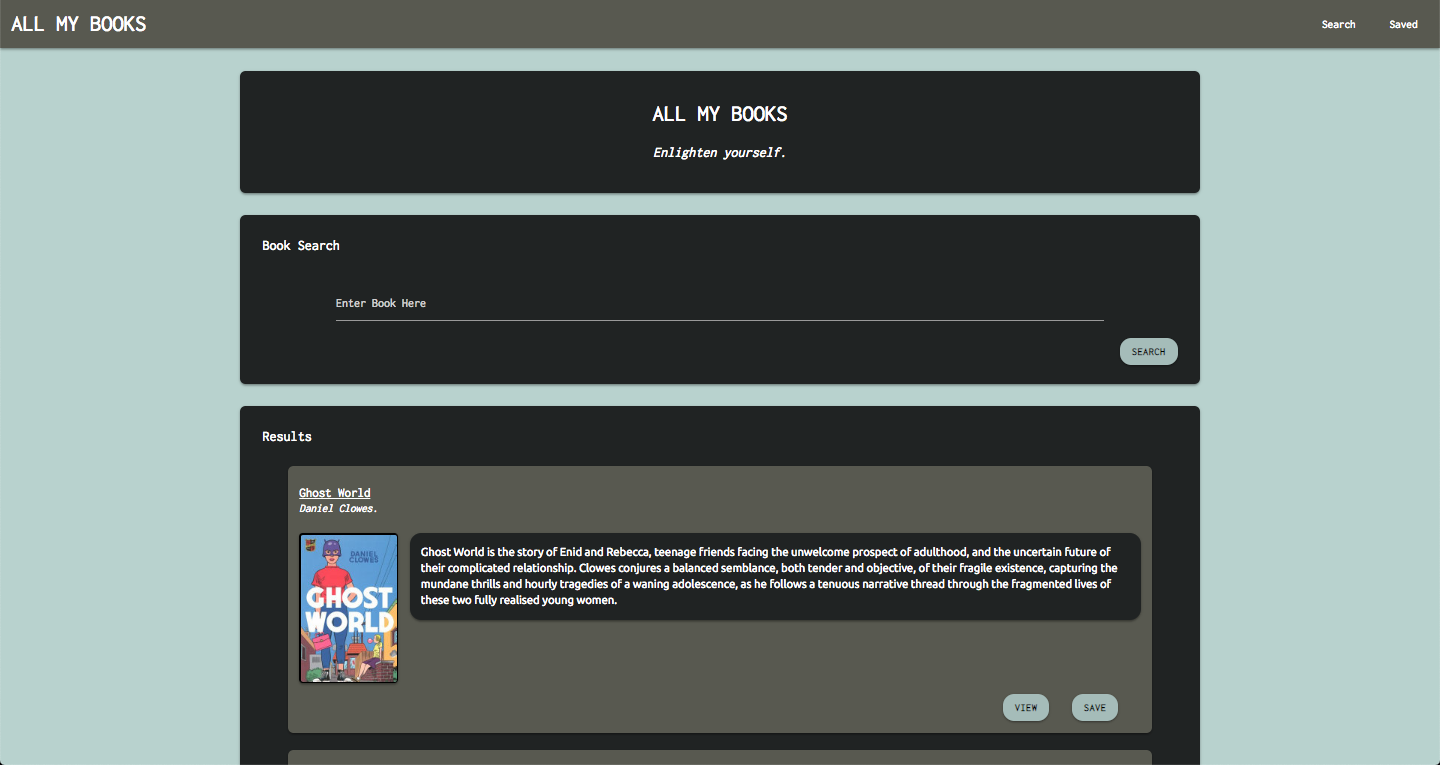
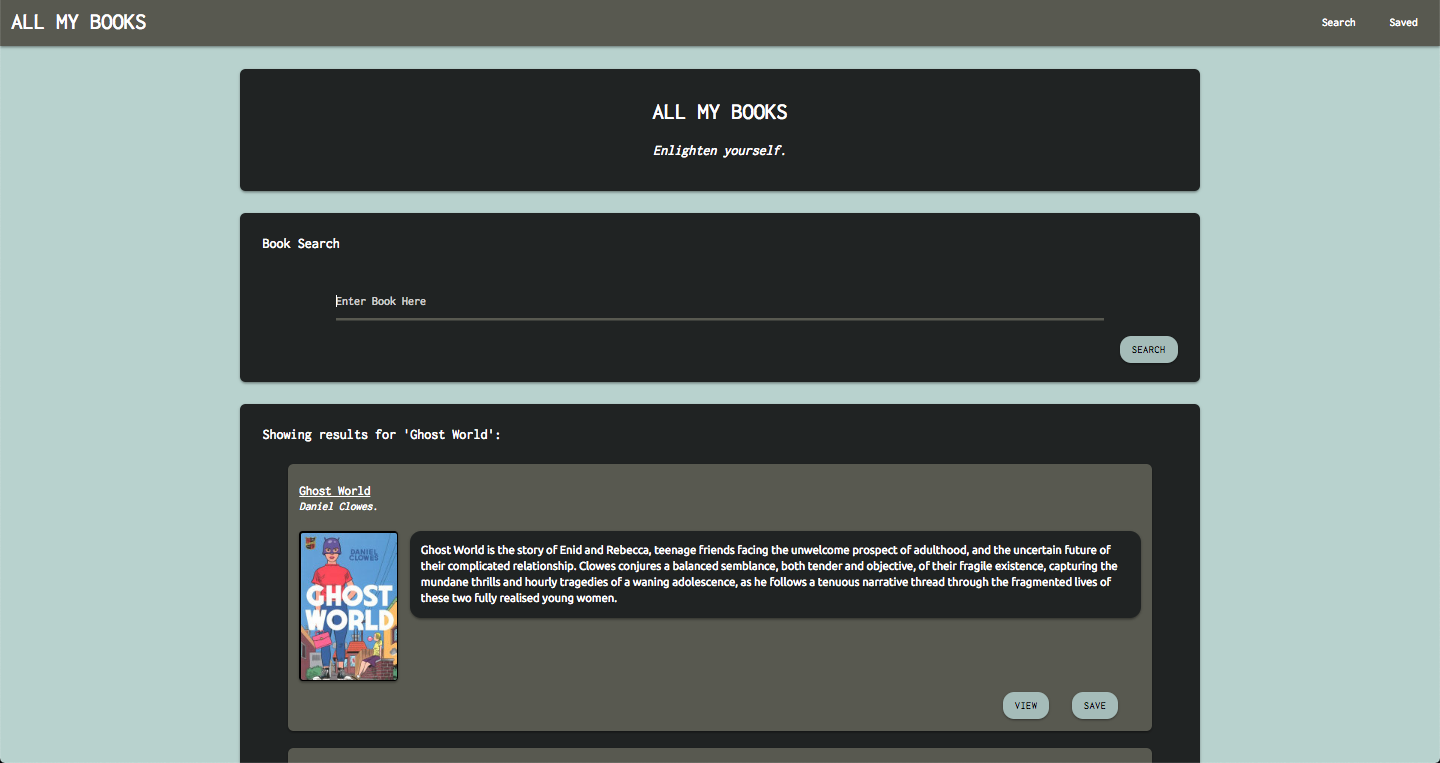
updated state of results

diff --git a/client/src/components/BooksContainer.js b/client/src/components/BooksContainer.js
@@ -1,38 +1,39 @@
-import React, { Component } from "react";
-import SearchForm from "./SearchForm";
-import API from "../utils/API";
-import BookResults from "./BookResults";
-import Book from "./Book";
+import React, { Component } from 'react';
+import SearchForm from './SearchForm';
+import API from '../utils/API';
+import BookResults from './BookResults';
+import Book from './Book';
 
 // contains the logic for the search field and API calls for GET/POST
 
 class BooksContainer extends Component {
   state = {
     result: [],
-    search: "",
-    resultTitle: "Results"
+    search: '',
+    resultTitle: 'Results'
   };
-
-  componentDidUpdate() {
-    console.log(this.state.result);
-  }
 
   searchBooks = query => {
     API.search(query)
-      .then(res => this.setState({ result: res.data.items }))
+      .then(res =>
+        this.setState({
+          result: res.data.items,
+          search: '',
+          resultTitle: `Showing results for '${query}':`
+        })
+      )
       .catch(err => console.log(err));
-    this.setState({ search: "" });
   };
 
   saveBook = event => {
     event.preventDefault();
     const target = event.target.parentNode.parentNode;
     API.saveBook({
-      title: target.querySelector("h6").textContent,
-      authors: target.querySelector(".book-authors").textContent,
-      description: target.querySelector(".book-text").textContent,
-      image: target.querySelector("img").src,
-      link: target.querySelector("a").href,
+      title: target.querySelector('h6').textContent,
+      authors: target.querySelector('.book-authors').textContent,
+      description: target.querySelector('.book-text').textContent,
+      image: target.querySelector('img').src,
+      link: target.querySelector('a').href,
       saved: true
     }).then(res => console.log(res));
   };
@@ -73,8 +74,8 @@ class BooksContainer extends Component {
                 description={result.volumeInfo.description}
                 authors={
                   result.volumeInfo.authors
-                    ? result.volumeInfo.authors.map(author => author + ". ")
-                    : "Unknown"
+                    ? result.volumeInfo.authors.map(author => author + '. ')
+                    : 'Unknown'
                 }
                 saveBook={this.saveBook}
               />
